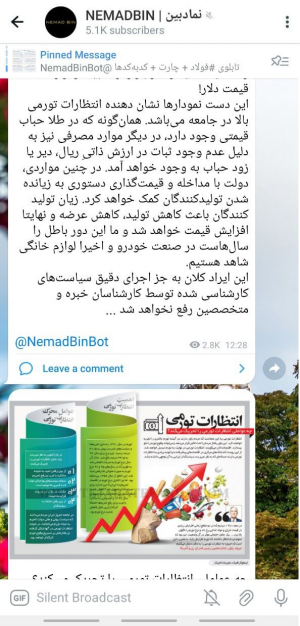
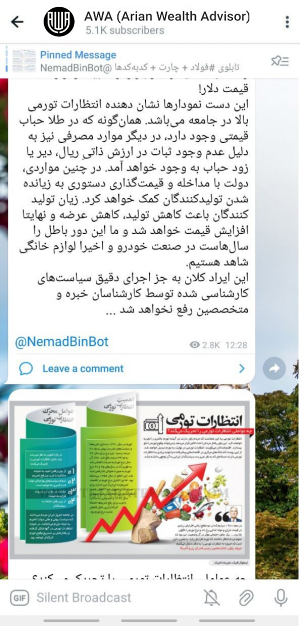
.

Changed region(s): [[0.15, 0.0, 0.84, 0.0607]]

diff --git a/about.html b/about.html
@@ -4,7 +4,7 @@
     <meta charset="UTF-8" />
     <meta name="viewport" content="width=device-width, initial-scale=1.0" />
     <meta http-equiv="X-UA-Compatible" content="ie=edge" />
-    <title>نمادبین - صفحهی معرفی </title>
+    <title>آوا - صفحهی معرفی </title>
 
     <link rel="stylesheet" href="https://fonts.googleapis.com/css?family=Open+Sans:400,600" />
     <link rel="stylesheet" href="css/all.min.css" />
@@ -18,11 +18,11 @@
       <div class="container-fluid">
         <div class="row tm-brand-row">
           <div class="col-lg-4 col-11">
-            <div class="tm-brand-container tm-bg-white-transparent">
-              <i class=""><img src="img/NemadBinLOGO.png" style="height: 200px;border-radius: 10px;" /></i>
-              <div class="tm-brand-texts">
-                <h1 class="text-uppercase tm-brand-name">نمادبین</h1>
-                <p class="small">مشاور مالی شما</p>
+            <div class="tm-brand-container tm-bg-white-transparent" style="border-radius: 10px;">
+              <i class=""><img src="img/awa.jpg" style="height: 200px; border-radius: 10px;" /></i>
+              <div class="tm-brand-texts" style="text-align:center">
+                <h1 class="text-uppercase tm-brand-name">AWA</h1>
+                <p class="small">Arian Wealth Advisor</p>
               </div>
             </div>
           </div>
@@ -66,7 +66,7 @@
         <!-- About -->
         <section class="row" id="tmAbout" style="direction: rtl; text-align: justify">
           <header class="col-12 tm-about-header">
-            <h2 class="text-uppercase text-center text-dark tm-about-page-title">دربارهی نمادبین</h2>
+            <h2 class="text-uppercase text-center text-dark tm-about-page-title">دربارهی آوا</h2>
             <hr class="tm-about-title-hr">
           </header>
           <div class="col-lg-4" style="direction: rtl; text-align: justify">
@@ -74,7 +74,7 @@
               <div class="tm-about-number-container">1.0</div>              
               <h3 class="tm-about-name">مدیریت ریسک</h3>
               <p class="tm-about-description">
-                NemadBin از الگوریتمهای هوشمندی استفاده میکند که در هنگام ارائه توصیههای تجاری، تحمل ریسک معاملهگر را در نظر میگیرد. این می تواند به معامله گران کمک کند تا تصمیمات معاملاتی مناسب تر و مطمئن تری بگیرند.
+                AWA از الگوریتمهای هوشمندی استفاده میکند که در هنگام ارائه توصیههای تجاری، تحمل ریسک معاملهگر را در نظر میگیرد. این می تواند به معامله گران کمک کند تا تصمیمات معاملاتی مناسب تر و مطمئن تری بگیرند.
               </p>
             </div>
           </div>
@@ -84,7 +84,7 @@
               <div class="tm-about-number-container">2.0</div>              
               <h3 class="tm-about-name">پیشنهاد معاملات بهینه</h3>
               <p class="tm-about-description">
-                با استفاده از الگوریتم های هوش مصنوعی و تکنیک های پردازش اطلاعات موازی، NemadBin  توصیه های تجاری بهینه ای را به معامله گران ارائه میدهد
+                با استفاده از الگوریتم های هوش مصنوعی و تکنیک های پردازش اطلاعات موازی، AWA  توصیه های تجاری بهینه ای را به معامله گران ارائه میدهد
               </p>
               <a href="#tmFeatures" class="btn btn-tertiary tm-btn-app-feature">More</a>
             </div>
@@ -106,7 +106,7 @@
         <section id="tmAppFeatures" style="direction: rtl; text-align: justify">
             <div class="row">
                 <header class="col-12 text-center text-white tm-bg-black-transparent p-5 tm-app-header">
-                    <h2 class="text-uppercase mb-3 tm-app-feature-header">ویژگیهای نمادبین</h2>
+                    <h2 class="text-uppercase mb-3 tm-app-feature-header">ویژگیهای آوا</h2>
                     <p class="mb-0 small"></p>
                 </header>
             </div>
@@ -143,7 +143,7 @@
                         </div>
                         <div class="tm-app-feature-description-box">
                             <h3 class="mb-4 tm-app-feature-title">اجرای با سرعت بالا</h3>
-                            <p class="tm-app-feature-description">NemadBin برای سرعت طراحی شده است. از الگوریتمهای پیشرفته و تکنیکهای پردازش اطلاعات موازی استفاده میکند و از واکنشهای سریع به تغییرات بازار اطمینان میدهد. معامله گران می توانند استراتژی های خود را در زمان واقعی و با استفاده از حرکات سریع بازار اجرا کنند. این قابلیت پرسرعت در بازارهای مالی پویا بسیار ارزشمند است، جایی که تصمیمگیریهای چند ثانیهای میتوانند تفاوت اساسی در نتایج معاملات ایجاد کنند.</p>
+                            <p class="tm-app-feature-description">AWA برای سرعت طراحی شده است. از الگوریتمهای پیشرفته و تکنیکهای پردازش اطلاعات موازی استفاده میکند و از واکنشهای سریع به تغییرات بازار اطمینان میدهد. معامله گران می توانند استراتژی های خود را در زمان واقعی و با استفاده از حرکات سریع بازار اجرا کنند. این قابلیت پرسرعت در بازارهای مالی پویا بسیار ارزشمند است، جایی که تصمیمگیریهای چند ثانیهای میتوانند تفاوت اساسی در نتایج معاملات ایجاد کنند.</p>
                         </div>
                     </div>
                 </div>
@@ -155,7 +155,7 @@
                         </div>
                         <div class="tm-app-feature-description-box">
                             <h3 class="mb-4 tm-app-feature-title">دقت سفارشی</h3>
-                            <p class="tm-app-feature-description">این ابزار برای ارائه نتایج با کیفیت بالا طراحی شده است که متناسب با نیازها و ترجیحات خاص هر معامله گر است. کنسول NemadBin به معاملهگران اجازه میدهد تا دقیقاً آنچه را که میخواهند منتقل کنند و از تجربه تجاری شخصیسازی شده اطمینان حاصل کنند. درک می کند که یک اندازه در معاملات مناسب نیست، و توانایی آن برای برآوردن نیازهای فردی به نتایج معاملات با کیفیت بالا کمک می کند.</p>
+                            <p class="tm-app-feature-description">این ابزار برای ارائه نتایج با کیفیت بالا طراحی شده است که متناسب با نیازها و ترجیحات خاص هر معامله گر است. کنسول AWA به معاملهگران اجازه میدهد تا دقیقاً آنچه را که میخواهند منتقل کنند و از تجربه تجاری شخصیسازی شده اطمینان حاصل کنند. درک می کند که یک اندازه در معاملات مناسب نیست، و توانایی آن برای برآوردن نیازهای فردی به نتایج معاملات با کیفیت بالا کمک می کند.</p>
                         </div>
                     </div>
                 </div>
@@ -167,7 +167,7 @@
         <footer class="row">
           <p class="col-12 text-white text-center tm-copyright-text">
             Copyright &copy; 2020 . 
-            Designed by <a href="#" class="tm-copyright-link">NemadBin</a>
+            Designed by <a href="#" class="tm-copyright-link">AWA</a>
           </p>
         </footer>
       </div>

diff --git a/services.html b/services.html
@@ -4,7 +4,7 @@
     <meta charset="UTF-8" />
     <meta name="viewport" content="width=device-width, initial-scale=1.0" />
     <meta http-equiv="X-UA-Compatible" content="ie=edge" />
-    <title>نمادبین - صفحهی معرفی </title>
+    <title>آوا - صفحهی معرفی </title>
 
     <link rel="stylesheet" href="https://fonts.googleapis.com/css?family=Open+Sans:400,600" />
     <link rel="stylesheet" href="css/all.min.css" />
@@ -18,11 +18,11 @@
       <div class="container-fluid">
         <div class="row tm-brand-row">
           <div class="col-lg-4 col-11">
-            <div class="tm-brand-container tm-bg-white-transparent">
-              <i class=""><img src="img/NemadBinLOGO.png" style="height: 200px;border-radius: 10px;" /></i>
-              <div class="tm-brand-texts">
-                <h1 class="text-uppercase tm-brand-name">نمادبین</h1>
-                <p class="small">مشاور مالی شما</p>
+            <div class="tm-brand-container tm-bg-white-transparent" style="border-radius: 10px;">
+              <i class=""><img src="img/awa.jpg" style="height: 200px; border-radius: 10px;" /></i>
+              <div class="tm-brand-texts" style="text-align:center">
+                <h1 class="text-uppercase tm-brand-name">AWA</h1>
+                <p class="small">Arian Wealth Advisor</p>
               </div>
             </div>
           </div>
@@ -72,7 +72,7 @@
                  data-image-src="img/coffee-glass.jpg">
 
                  <div class="tm-bg-black-transparent text-center tm-services-header">
-                    <h2 class="text-uppercase tm-services-page-title"> NemadBin سرویس </h2>
+                    <h2 class="text-uppercase tm-services-page-title"> AWA سرویس </h2>
                     
                 </div>
             </div>
@@ -82,7 +82,7 @@
             <div class="tm-bg-black-transparent tm-services-detail-box" style="direction: rtl; text-align: justify;">
                 
                 <p>
-                  در NemadBin، ما متعهد به ارائه مجموعه ای جامع از خدمات برای توانمندسازی معامله گران در بازارهای مالی پویا امروزی هستیم.
+                  در AWA، ما متعهد به ارائه مجموعه ای جامع از خدمات برای توانمندسازی معامله گران در بازارهای مالی پویا امروزی هستیم.
                    پیشنهادات ما برای پاسخگویی به نیازها و ترجیحات مختلف معامله گران طراحی شده است. از اجرای سریع و اعلانهای رویدادهای بیدرنگ گرفته تا توصیههای تجاری سفارشیشده و با ریسک بهینه، خدمات ما با فناوری پیشرفته و الگوریتمهای پیشرفته هدایت میشوند.
                     ما میدانیم که هر معاملهگری منحصربهفرد است و راهحلهای شخصیشده و باکیفیت ما نشاندهنده این درک است. چه به دنبال سرعت، دقت و یا ترکیبی از هر دو باشید، خدمات ما برای رسیدن به اهداف تجاری شما اینجا هستند. با تمرکز بر افزایش تجربه معاملاتی شما، هدف ما ارائه برتری در هر مرحله است و اطمینان حاصل می کنیم که شما به ابزارهایی که برای موفقیت در دنیای پر سرعت امور مالی نیاز دارید مجهز شده اید.
                 </p>
@@ -122,14 +122,14 @@
                                 <p class="tm-service-tab-p">
                                 </p>                            
                                 <p class="mb-0">
-                                  در NemadBin، رویکرد ما ساده است: ما فناوری پیشرفته را با راه حل های شخصی ترکیب می کنیم. ما اطمینان میدهیم که هر تصمیم تجاری با تحمل ریسک شما مطابقت دارد. اجرای پرسرعت ما به گونه ای طراحی شده است که به شما کمک کند از فرصت های بازار حداکثر استفاده را ببرید. در رویکرد ما غوطه ور شوید تا ببینید چگونه تجربه معاملات را متحول می کنیم.
+                                  در AWA، رویکرد ما ساده است: ما فناوری پیشرفته را با راه حل های شخصی ترکیب می کنیم. ما اطمینان میدهیم که هر تصمیم تجاری با تحمل ریسک شما مطابقت دارد. اجرای پرسرعت ما به گونه ای طراحی شده است که به شما کمک کند از فرصت های بازار حداکثر استفاده را ببرید. در رویکرد ما غوطه ور شوید تا ببینید چگونه تجربه معاملات را متحول می کنیم.
                                 </p>
                             </div>
                         </div>
                         <div id="tab3">
                             <div class="text-content" style="direction: right; text-align: right;">
                                 <h3 class="tm-service-tab-title">چرا ما را انتخاب کنید</h3>
-                                <p class="tm-service-tab-p">NemadBin انتخاب معامله گرانی است که به سرعت، دقت و کیفیت اهمیت می دهند. کشف کنید که چرا معاملهگران در سراسر جهان به ما برای ارائه اعلانهای رویداد در زمان واقعی، توصیههای تجاری شخصیسازیشده، و اجرای سریع رعد و برق به ما اعتماد میکنند. تعهد ما به نوآوری و برتری ما را متمایز می کند. NemadBin را برای تجربه تجارتی انتخاب کنید که شبیه هیچ چیز دیگری نیست.
+                                <p class="tm-service-tab-p">AWA انتخاب معامله گرانی است که به سرعت، دقت و کیفیت اهمیت می دهند. کشف کنید که چرا معاملهگران در سراسر جهان به ما برای ارائه اعلانهای رویداد در زمان واقعی، توصیههای تجاری شخصیسازیشده، و اجرای سریع رعد و برق به ما اعتماد میکنند. تعهد ما به نوآوری و برتری ما را متمایز می کند. AWA را برای تجربه تجارتی انتخاب کنید که شبیه هیچ چیز دیگری نیست.
                                 </p>                            
                                 
                             </div>
@@ -145,7 +145,7 @@
         <footer class="row">
           <p class="col-12 text-white text-center tm-copyright-text">
             Copyright &copy; 2020 . 
-            Designed by <a href="#" class="tm-copyright-link">NemadBin</a>
+            Designed by <a href="#" class="tm-copyright-link">AWA</a>
           </p>
         </footer>
       </div>

diff --git a/index.html b/index.html
@@ -4,7 +4,7 @@
     <meta charset="UTF-8" />
     <meta name="viewport" content="width=device-width, initial-scale=1.0" />
     <meta http-equiv="X-UA-Compatible" content="ie=edge" />
-    <title>نمادبین - صفحهی معرفی </title>
+    <title>آوا - صفحهی معرفی </title>
 
     <link rel="stylesheet" href="https://fonts.googleapis.com/css?family=Open+Sans:400,600" />
     <link rel="stylesheet" href="css/all.min.css" />
@@ -18,11 +18,11 @@
       <div class="container-fluid">
         <div class="row tm-brand-row">
           <div class="col-lg-4 col-11">
-            <div class="tm-brand-container tm-bg-white-transparent">
-              <i class=""><img src="img/NemadBinLOGO.png" style="height: 200px;border-radius: 10px;" /></i>
-              <div class="tm-brand-texts">
-                <h1 class="text-uppercase tm-brand-name">نمادبین</h1>
-                <p class="small">مشاور مالی شما</p>
+            <div class="tm-brand-container tm-bg-white-transparent" style="border-radius: 10px;">
+              <i class=""><img src="img/awa.jpg" style="height: 200px; border-radius: 10px;" /></i>
+              <div class="tm-brand-texts" style="text-align:center">
+                <h1 class="text-uppercase tm-brand-name">AWA</h1>
+                <p class="small">Arian Wealth Advisor</p>
               </div>
             </div>
           </div>
@@ -70,12 +70,12 @@
               <hr class="tm-home-hr" />
               <h2 class="tm-home-title">مشاور سرمایهگذاری شما در بازار سهام</h2>
               <p class="tm-home-text">
-                نمادبین یک برنامه آموزش جامع جهت انجام سرمایهگذاری در بازار بورس ایران است. نمادبین به شما کمک میکند تا شما با توجه به وضعیت بازار، بتوانید بهترین گزینه سرمایهگذاری را تشخیص دهید.
+                آوا یک برنامه آموزش جامع جهت انجام سرمایهگذاری در بازار بورس ایران است. آوا به شما کمک میکند تا شما با توجه به وضعیت بازار، بتوانید بهترین گزینه سرمایهگذاری را تشخیص دهید.
               </p>
               <a href="#tmFeatures" class="btn btn-primary">بیشتر بدانید</a>
             </div>
             <div class="tm-home-right">
-              <img src="img/mobile-screen2.png" alt="App on Mobile" style="border-radius: 9px;"/>
+              <img src="img/mobile-screen2.png" alt="App on Mobile" style="border-radius: 9px; opacity: 0.85;"/>
             </div>
           </div>
         </section>
@@ -90,7 +90,7 @@
                 <i class="fas fa-3x fa-server"></i>
               </div>
         
-              <p class="text-center">نمادبین با بهینهسازی الگوریتمهای هوش مصنوعی و استفاده از تکنیکهای پردازش موازی اطلاعات،با عملکرد فوقالعاده سریع به تغییرات بازار واکنش نشان میدهد.</p>
+              <p class="text-center">آوا با بهینهسازی الگوریتمهای هوش مصنوعی و استفاده از تکنیکهای پردازش موازی اطلاعات،با عملکرد فوقالعاده سریع به تغییرات بازار واکنش نشان میدهد.</p>
             </div>
           </div>
         
@@ -101,7 +101,7 @@
               <div class="tm-feature-icon-container">
                 <i class="fas fa-3x fa-headphones"></i>
               </div>
-              <p class="text-center">تیم پشتیبانی آنلاین نمادبین،در هر لحظه آمادهي پاسخگویی به سوالات شما میباشد.</p>
+              <p class="text-center">تیم پشتیبانی آنلاین آوا،در هر لحظه آمادهي پاسخگویی به سوالات شما میباشد.</p>
             </div>
           </div>
         
@@ -112,7 +112,7 @@
               <div class="tm-feature-icon-container">
                 <i class="fas fa-3x fa-satellite-dish"></i>
               </div>
-              <p class="text-center">با استفاده از الگوریتمهای هوشمند و با توجه به میزان ریسکپذیری شما، نمادبین میتواند به شما بهینهترین سبد را پیشنهاد دهد.</p>
+              <p class="text-center">با استفاده از الگوریتمهای هوشمند و با توجه به میزان ریسکپذیری شما، آوا میتواند به شما بهینهترین سبد را پیشنهاد دهد.</p>
             </div>
           </div>
         </div>
@@ -139,7 +139,7 @@
         <footer class="row">
           <p class="col-12 text-white text-center tm-copyright-text">
             Copyright &copy; 2020. 
-            Designed by <a href="#" class="tm-copyright-link">NemadBin</a> Group
+            Designed by <a href="#" class="tm-copyright-link">AWA</a> Group
           </p>
         </footer>
       </div>

diff --git a/testimonials.html b/testimonials.html
@@ -4,7 +4,7 @@
     <meta charset="UTF-8" />
     <meta name="viewport" content="width=device-width, initial-scale=1.0" />
     <meta http-equiv="X-UA-Compatible" content="ie=edge" />
-    <title>نمادبین - صفحهی معرفی </title>
+    <title>آوا - صفحهی معرفی </title>
 
     <link rel="stylesheet" href="https://fonts.googleapis.com/css?family=Open+Sans:400,600" />
     <link rel="stylesheet" href="css/all.min.css" />
@@ -20,11 +20,11 @@
       <div class="container-fluid">
         <div class="row tm-brand-row">
           <div class="col-lg-4 col-11">
-            <div class="tm-brand-container tm-bg-white-transparent">
-              <i class=""><img src="img/NemadBinLOGO.png" style="height: 200px;border-radius: 10px;" /></i>
-              <div class="tm-brand-texts">
-                <h1 class="text-uppercase tm-brand-name">نمادبین</h1>
-                <p class="small">مشاور مالی شما</p>
+            <div class="tm-brand-container tm-bg-white-transparent" style="border-radius: 10px;">
+              <i class=""><img src="img/awa.jpg" style="height: 200px; border-radius: 10px;" /></i>
+              <div class="tm-brand-texts" style="text-align:center">
+                <h1 class="text-uppercase tm-brand-name">AWA</h1>
+                <p class="small">Arian Wealth Advisor</p>
               </div>
             </div>
           </div>
@@ -123,7 +123,7 @@
             <div class="tm-bg-white tm-call-to-action-text">
               <h2 class="tm-call-to-action-title" style="text-align: center;">ما را دنبال کنید</h2>
               <p class="tm-call-to-action-description" style="float: right; text-align: right;">
-                .با ثبت ایمیل خود در سامانه نمادبین، از آخرین اخبار،رویدادها و اتفاقات با خبر شوید
+                .با ثبت ایمیل خود در سامانه آوا، از آخرین اخبار،رویدادها و اتفاقات با خبر شوید
               </p>
               <form action="#" method="get" class="tm-call-to-action-form" style="float: right;">                
                 <input name="email" type="email" class="tm-email-input" id="email" placeholder="Email" />
@@ -138,7 +138,7 @@
         <footer class="row">
           <p class="col-12 text-white text-center tm-copyright-text">
             Copyright &copy; 2020 . 
-            Designed by <a href="#" class="tm-copyright-link">NemadBin</a>
+            Designed by <a href="#" class="tm-copyright-link">AWA</a>
           </p>
         </footer>
       </div>

diff --git a/contact.html b/contact.html
@@ -4,7 +4,7 @@
     <meta charset="UTF-8" />
     <meta name="viewport" content="width=device-width, initial-scale=1.0" />
     <meta http-equiv="X-UA-Compatible" content="ie=edge" />
-    <title>نمادبین - صفحهی معرفی </title>
+    <title>آوا - صفحهی معرفی </title>
 
     <link rel="stylesheet" href="https://fonts.googleapis.com/css?family=Open+Sans:400,600" />
     <link rel="stylesheet" href="css/all.min.css" />
@@ -18,11 +18,11 @@
       <div class="container-fluid">
         <div class="row tm-brand-row">
           <div class="col-lg-4 col-11">
-            <div class="tm-brand-container tm-bg-white-transparent">
-              <i class=""><img src="img/NemadBinLOGO.png" style="height: 200px;border-radius: 10px;" /></i>
-              <div class="tm-brand-texts">
-                <h1 class="text-uppercase tm-brand-name">نمادبین</h1>
-                <p class="small">مشاور مالی شما</p>
+            <div class="tm-brand-container tm-bg-white-transparent" style="border-radius: 10px;">
+              <i class=""><img src="img/awa.jpg" style="height: 200px; border-radius: 10px;" /></i>
+              <div class="tm-brand-texts" style="text-align:center">
+                <h1 class="text-uppercase tm-brand-name">AWA</h1>
+                <p class="small">Arian Wealth Advisor</p>
               </div>
             </div>
           </div>
@@ -129,7 +129,7 @@
         <footer class="row">
           <p class="col-12 text-white text-center tm-copyright-text">
             Copyright &copy; 2020 . 
-            Designed by <a href="#" class="tm-copyright-link">NemadBin</a>
+            Designed by <a href="#" class="tm-copyright-link">Awa</a>
           </p>
         </footer>
       </div>
